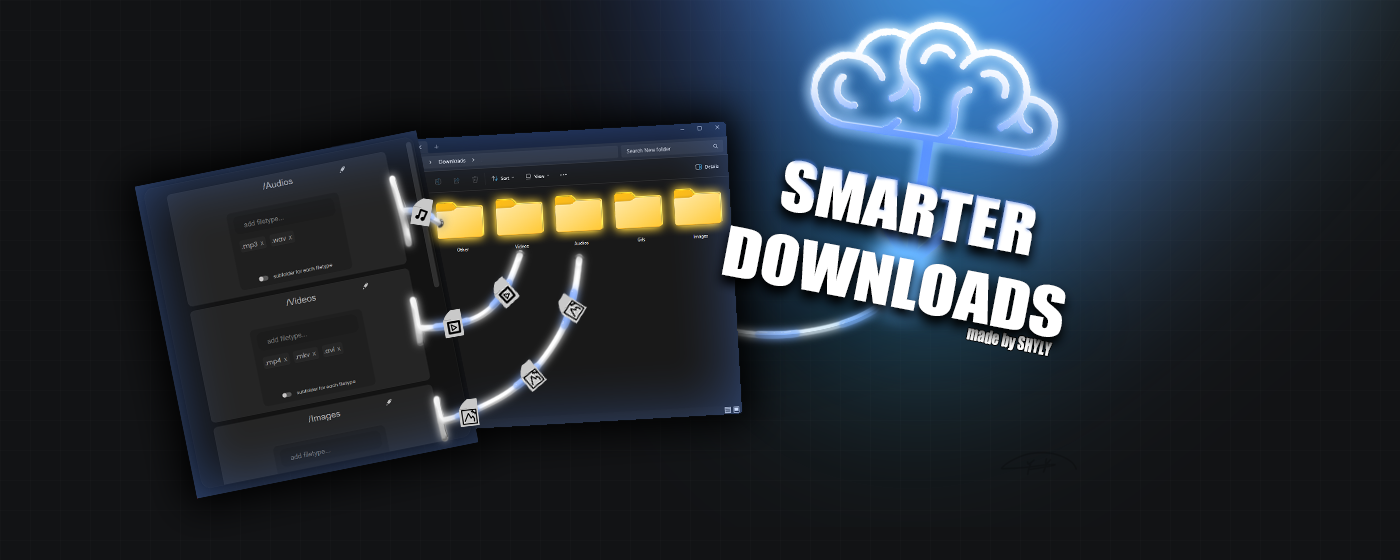
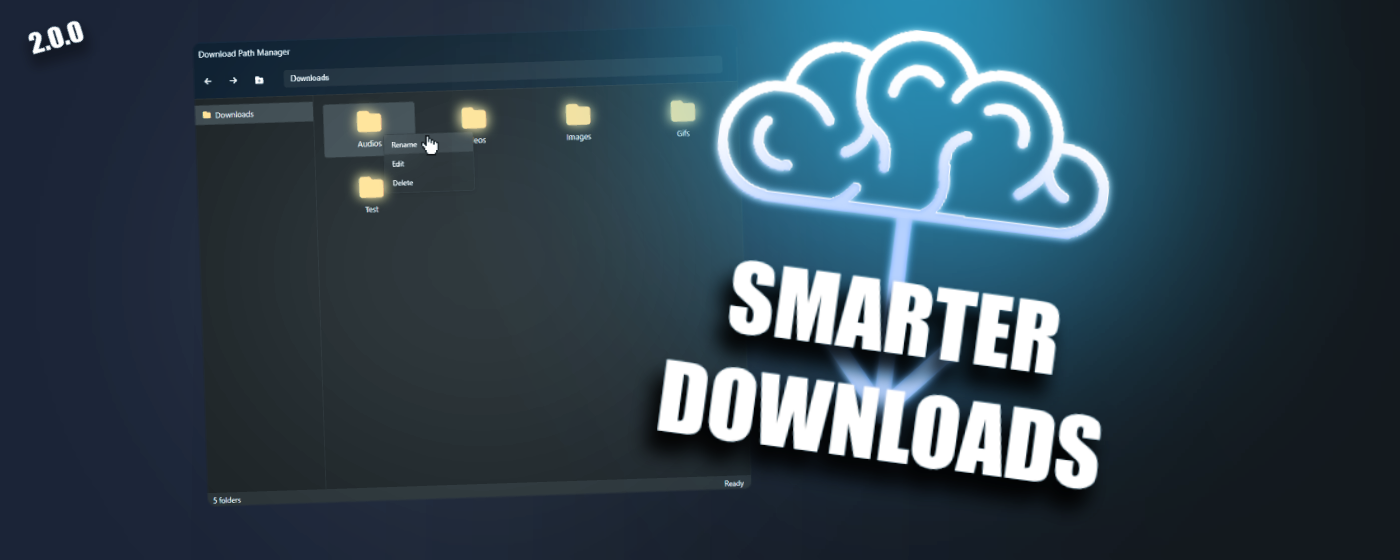
rewrite README for new version 2.0.0

diff --git a/README.md b/README.md
@@ -1,40 +1,66 @@
-# Smarter Downloads ![plot](./assets/icons/SD48.png)
+# Smarter Downloads ![plot](./dist/assets/icons/SD48.png)
 
 ## Overview
-> [!NOTE]
-> This extension allows you to customize the download path for files based on file types and folder names. You can specify every file type in the settings and let it automatically download to the specified folder.
 
-![banner](./assets/readme/banner.png)
+ *Customize download paths based on file types with an easy to understand Windows Explorer interface.*
+
+>[!IMPORTANT]  
+> This extension cannot create folders outside your browser's configured default download directory 
+> e.g., C:\Users\[You]\Downloads
+> All organizational folders must be subdirectories within this location
+
+
+
+![banner](./dist/assets/readme/banner.png)
+
+## What's New in v2.0
+**Complete Windows Explorer UI redesign** 
+- Looks and works like real Windows 11 File Explorer
+
+**Visual folder navigation** 
+- Browse folders like in Windows Explorer
+
+**Improved path switching** 
+- Faster and more reliable file sorting
+
+**Simplified setup** 
+- Right-click context menus and intuitive controls
+
+**New code structure** 
+- Easier maintenance and future updates
 
 ## Usage
 
-![tutorial](./assets/readme/tutorial.png)
+<img src="./dist/assets/readme/tutorial1.png" width="400" height="auto">
+<img src="./dist/assets/readme/tutorial2.png" width="400" height="auto">
 
-**How Do i Start?:**
 
-- *Click on the extension icon (the location may vary depending on your browser).*
-- *The Settings Page should open.*
+**Getting Started:**
+1. Click the extension icon in your browser toolbar
+2. The Windows File Explorer-style interface will open
 
-**Changing Folder Names:**
-- *Click on the pencil icon next to the folder name to edit it.*
-- *Press Enter or click somewhere else to save changes.*
+**Managing Download Paths:**
+- **Right-click on folders** to rename, edit,or delete the
+- **Double-click folders** to open and view their file types
+- **Right-click in empty space** to add new file type if in a folder
+- **Right-click in empty space** to add new folder if outside of a folder
+- **Toggle subfolders** using the switch in folder views
 
-**Filter Filetypes:**
-- *Click on the **add filetype..** input and type your filetypes.*
-- *Press Enter or use commas to seperat multiple filetypes.*
-- *Click on the **X** of the filetype to remove a filetype.*
+**Key Features:**
+- Address bar shows and edits current download path
+- Visual feedback when paths change
+- Context menus matching Windows Explorer
+- Automatic saving on every change
 
-**Subfolder Option:**
-- *Toggle the checkbox to create your own subfolders for each file type.*
-- *The names of the subfolders will correspond to the file type names (e.g., Music/MP4).*
+**Saving & Data:**
+- All settings auto-save locally after each change
+- Persists across browser sessions
+- Cleared when you uninstall the extension
 
-**Saving:**
-- *Settings are saved locally and will persist across browser sessions.*
-- *Settings will be cleared when you remove the extension.*
+## Development
 
->## File Descriptions:
->- `background.js`: Mainly manages the download paths based on the stored settings.
->- `settingsHandler.js`: Handles UI events and updates frontend storage on setting changes.
->- `htmlHandler.js`: Handles HTML event such as animations, cursor glow, smooth scroll..
->- `build.js`: Builds the project by minifying files and images. Use 'npm run build' after installing dependencies with 'npm install'.
-
+### Building
+```bash
+npm install
+npm run build
+npm run dev
